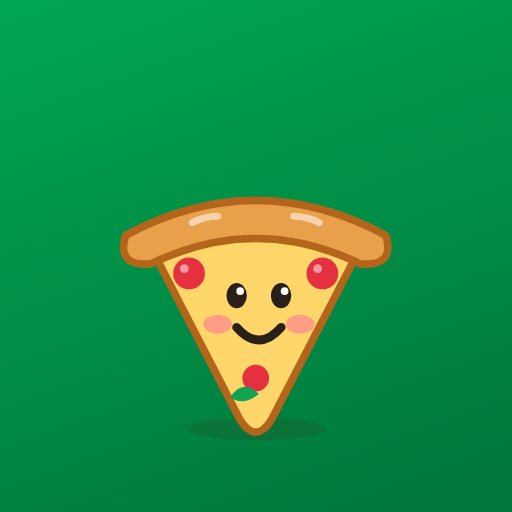
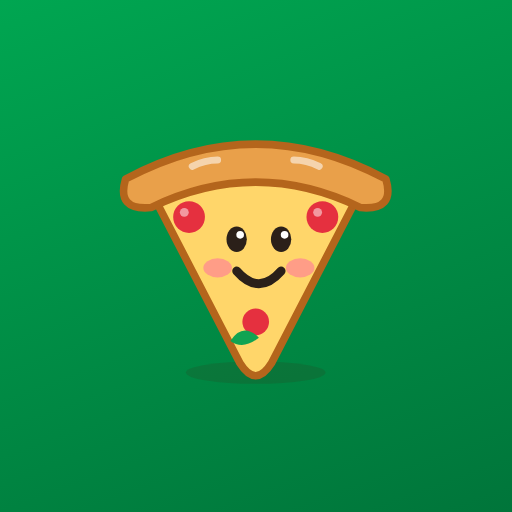
Иконка для Android: рисунок по центру безопасной зоны

Changed region(s): [[0.2188, 0.25, 0.7812, 0.875]]

diff --git a/tools/icon.html b/tools/icon.html
@@ -2,7 +2,7 @@
 <link rel="stylesheet" href="../css/style.css">
 <style>html,body{margin:0;height:100%;overflow:hidden}body{background:linear-gradient(160deg,#00A651,#00753A)!important;display:grid;place-items:center}body::before{display:none}
 .frame{position:absolute;inset:7%;border-radius:15%;border:.9vmin solid rgba(255,255,255,.92)}
-.m{position:relative;width:78vmin;display:grid;place-items:center;margin-top:-9vmin}.mask .frame{display:none}.mask .m{width:62vmin;margin-top:-7vmin}</style>
+.m{position:relative;width:78vmin;display:grid;place-items:center;margin-top:-9vmin}.mask .frame{display:none}.mask .m{width:62vmin;margin-top:-7vmin;transform:translateY(-11vmin)}</style>
 <div id="r"></div><script src="../js/art.js"></script>
 <script>const mask=location.hash==='#mask';document.body.className=mask?'mask':'';
 const f=document.createElement('div');f.className='frame';const m=document.createElement('div');m.className='m';m.append(mascot('happy',1000));m.firstChild.style.width='100%';m.firstChild.style.height='auto';

diff --git a/sw.js b/sw.js
@@ -3,7 +3,7 @@
    Libraries, icons, fonts: cache first. Firebase traffic is never touched. */
 // The cache name has its own prefix: both apps live on annkka3.github.io and share Cache Storage, so a generic
 // 'shell-' prefix would let one app's cleanup delete the other's cache.
-const VERSION = 'v2';
+const VERSION = 'v3';
 const PREFIX = 'pi-shell-';
 const CACHE = PREFIX + VERSION;
 const CORE = [
